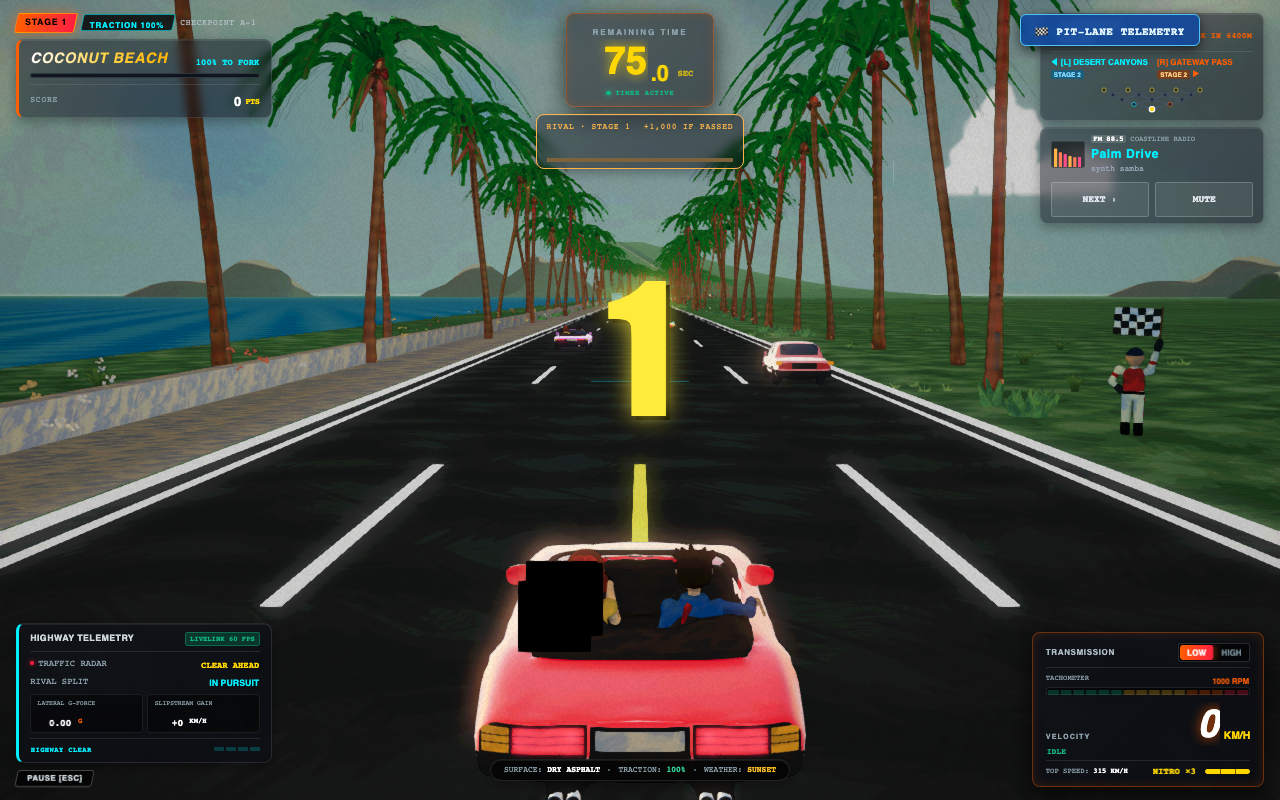
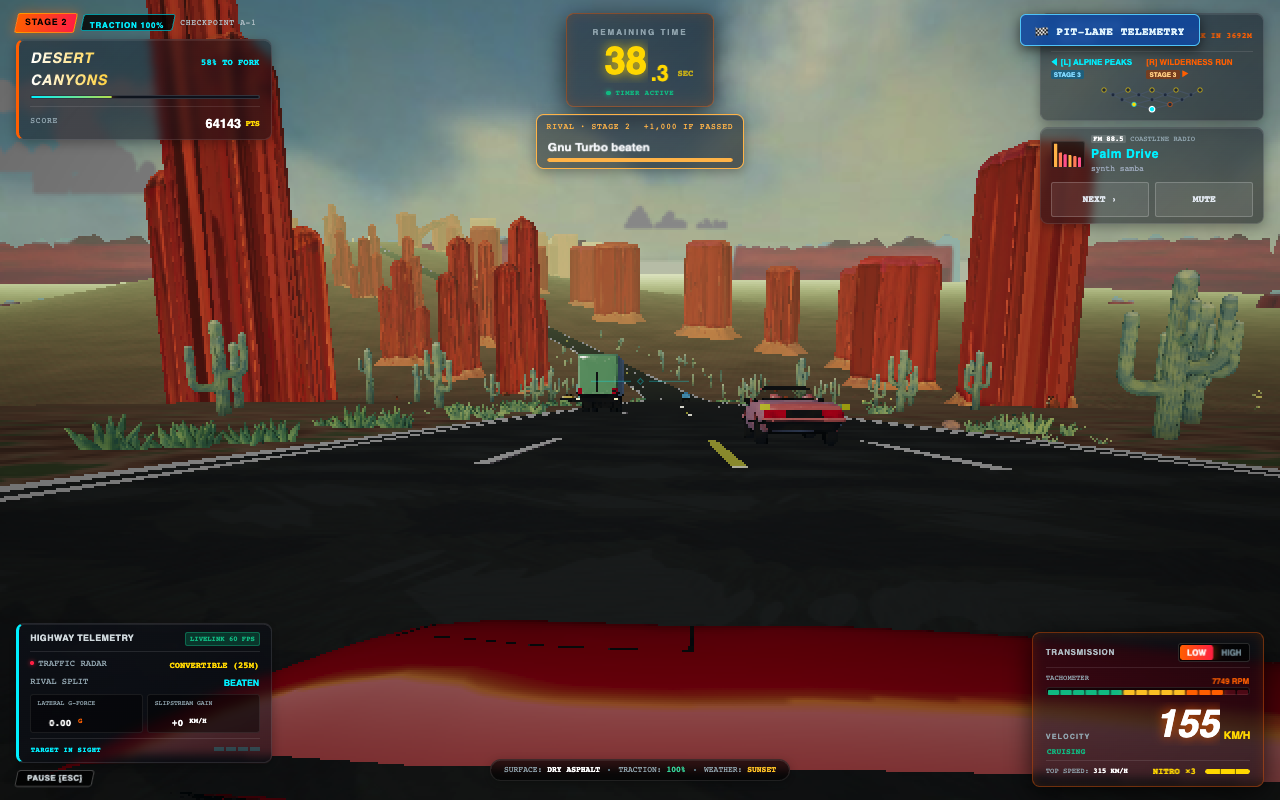
Merge pull request #2241 from worldsense/docs/pronto-showcase-phones
docs(pronto): showcase phones beside the desktop, Apex Run from the hood

GitOrigin-RevId: e3baed0dea4fdead0f2948b2e37f5a77ca25a165

diff --git a/README.md b/README.md
@@ -28,11 +28,12 @@ Generate flashcards to teach toddlers to read. Leverages modern image generation
 
 <table>
   <tr>
-    <td align="center" rowspan="2" width="22%"><img src="docs/showcase/snapcards-home-phone.png" alt="Snapcards on a phone"><br><sub>The opening page on a phone, the featured deck first.</sub></td>
-    <td align="center" width="39%"><img src="docs/showcase/snapcards-home.png" alt="Snapcards library"><br><sub>The deck library on a laptop: curated and reader-made decks.</sub></td>
-    <td align="center" width="39%"><img src="docs/showcase/snapcards-ir.png" alt="Snapcards IR"><br><sub>The LLM-produced intermediate representation of the code: an entity card and the state machine that drives it.</sub></td>
+    <td align="center" width="25%"><img src="docs/showcase/snapcards-home-phone.png" alt="Snapcards on a phone"><br><sub>The opening page on a phone, the featured deck first.</sub></td>
+    <td align="center" width="25%"><img src="docs/showcase/snapcards-print-phone.png" alt="Snapcards print studio on a phone"><br><sub>The print studio: cut lines for cards on paper.</sub></td>
+    <td align="center" colspan="2" width="50%"><img src="docs/showcase/snapcards-home.png" alt="Snapcards library"><br><sub>The deck library on a laptop: curated and reader-made decks.</sub></td>
   </tr>
   <tr>
+    <td align="center" colspan="2"><img src="docs/showcase/snapcards-ir.png" alt="Snapcards IR"><br><sub>The LLM-produced intermediate representation of the code: an entity card and the state machine that drives it.</sub></td>
     <td align="center" colspan="2"><img src="docs/showcase/snapcards-journal.png" alt="Snapcards journal"><br><sub>The LLM-produced journal of the development: a turn, before and after.</sub></td>
   </tr>
 </table>
@@ -62,12 +63,13 @@ A homage to the OutRun arcade game, llm-dreamed from super tux kart source code.
 
 <table>
   <tr>
-    <td align="center" width="50%"><img src="docs/showcase/apexrun-title.png" alt="Apex Run title"><br><sub>The title card, where a run starts.</sub></td>
-    <td align="center" width="50%"><img src="docs/showcase/apexrun-race.png" alt="Apex Run race"><br><sub>The highway at 60 Hz, nitro and traffic.</sub></td>
+    <td align="center" width="25%"><img src="docs/showcase/apexrun-title-phone.png" alt="Apex Run title on a phone"><br><sub>The title card on a phone, where a run starts.</sub></td>
+    <td align="center" width="25%"><img src="docs/showcase/apexrun-start-phone.png" alt="Apex Run start on a phone"><br><sub>The countdown on Coconut Beach, thumb pad and nitro below.</sub></td>
+    <td align="center" colspan="2" width="50%"><img src="docs/showcase/apexrun-race.png" alt="Apex Run race"><br><sub>Desert Canyons from the hood, closing on traffic past the first fork.</sub></td>
   </tr>
   <tr>
-    <td align="center"><img src="docs/showcase/apexrun-journal-early.png" alt="Apex Run journal, an early turn"><br><sub>The second entry of the development journal kept by the LLM: the wedge car, before each stage became a place.</sub></td>
-    <td align="center"><img src="docs/showcase/apexrun-journal-first.png" alt="Apex Run journal, the oracle"><br><sub>The product brief and the llm-generated frame it aimed at.</sub></td>
+    <td align="center" colspan="2"><img src="docs/showcase/apexrun-journal-early.png" alt="Apex Run journal, an early turn"><br><sub>The second entry of the development journal kept by the LLM: the wedge car, before each stage became a place.</sub></td>
+    <td align="center" colspan="2"><img src="docs/showcase/apexrun-journal-first.png" alt="Apex Run journal, the oracle"><br><sub>The product brief and the llm-generated frame it aimed at.</sub></td>
   </tr>
 </table>
 
